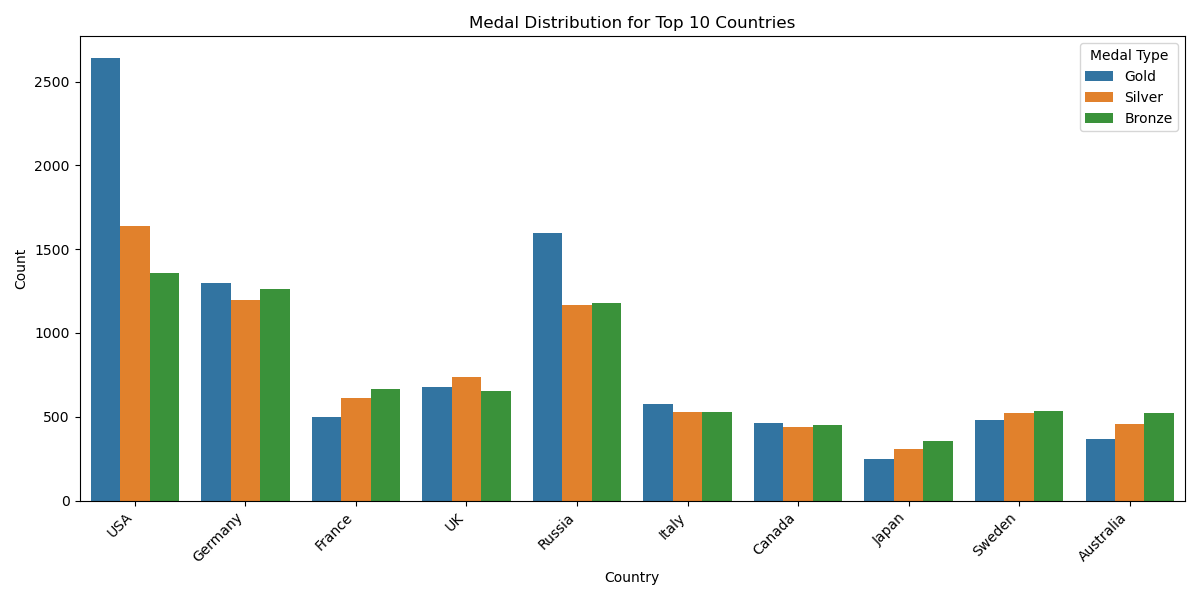
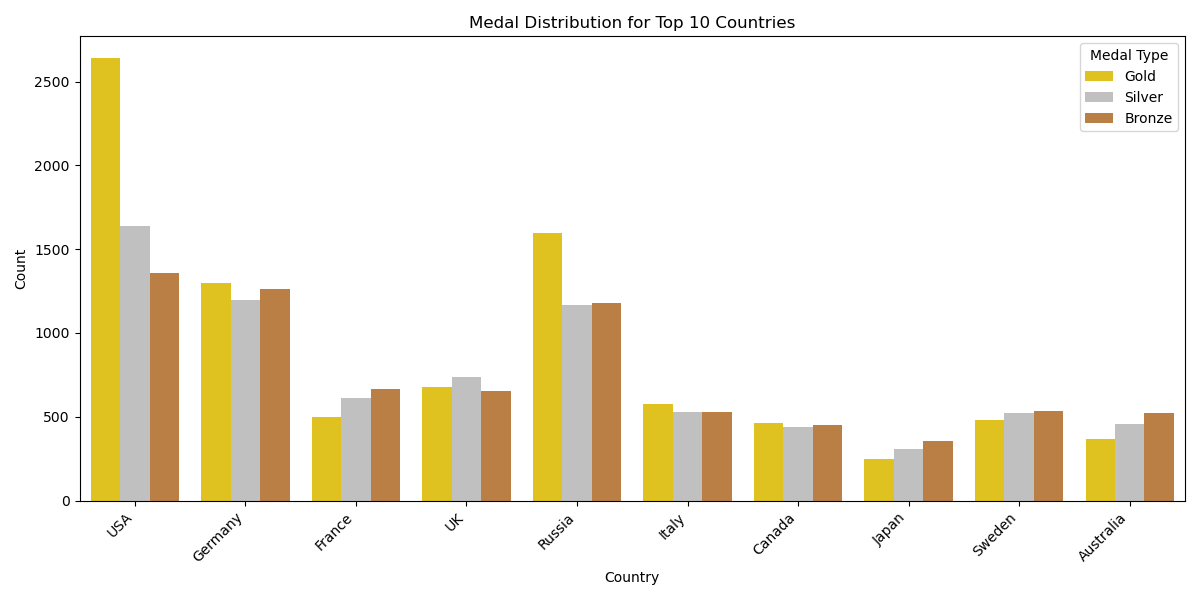
Update analysis medals by country bars colors

Changed region(s): [[0.0617, 0.09, 0.9867, 0.84], [0.8942, 0.12, 0.925, 0.21]]

diff --git a/scripts/analyze.py b/scripts/analyze.py
@@ -57,7 +57,22 @@ def analyze_medals_by_country():
                         value_vars=['Gold', 'Silver', 'Bronze'],
                         var_name='Medal Type', value_name='Count')
     
-    sns.barplot(data=df_melted, x='Country', y='Count', hue='Medal Type')
+    # Define medal colors
+    medal_colors = {
+        'Gold': '#FFD700',    # Gold color
+        'Silver': '#C0C0C0',  # Silver color
+        'Bronze': '#CD7F32'   # Bronze color
+    }
+    
+    # Create the bar plot with custom colors
+    sns.barplot(
+        data=df_melted,
+        x='Country',
+        y='Count',
+        hue='Medal Type',
+        palette=medal_colors
+    )
+    
     plt.title('Medal Distribution for Top 10 Countries')
     plt.xticks(rotation=45, ha='right')
     plt.tight_layout()
